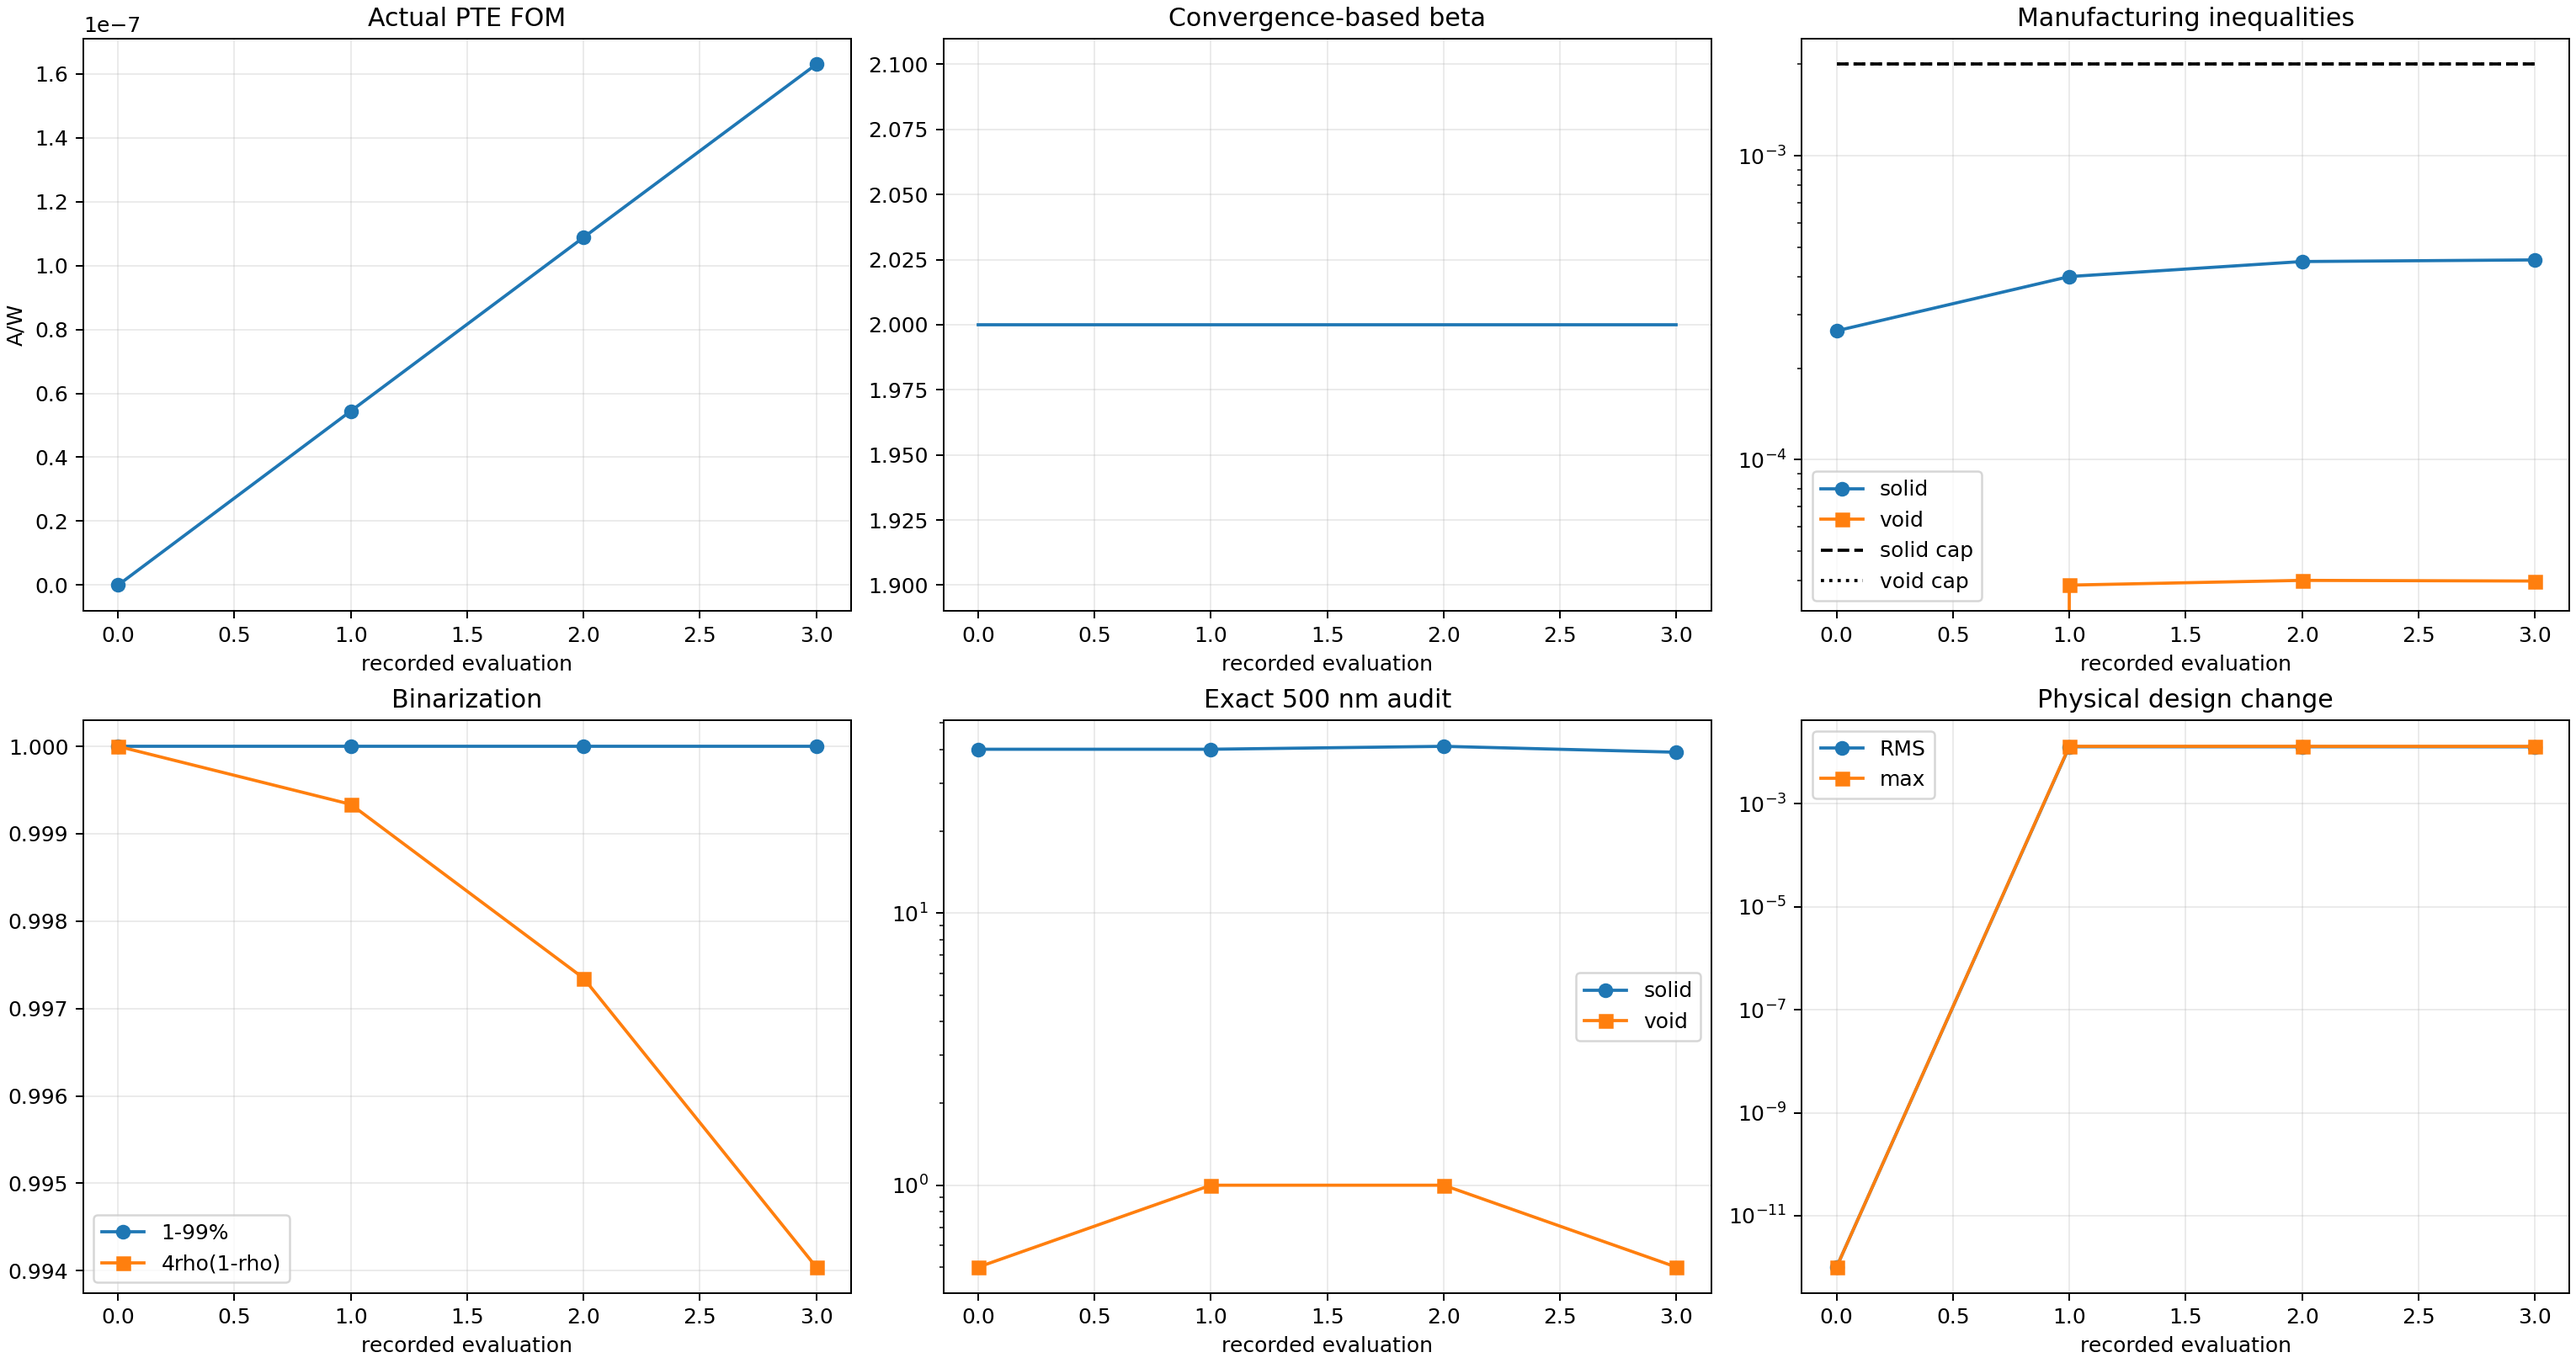
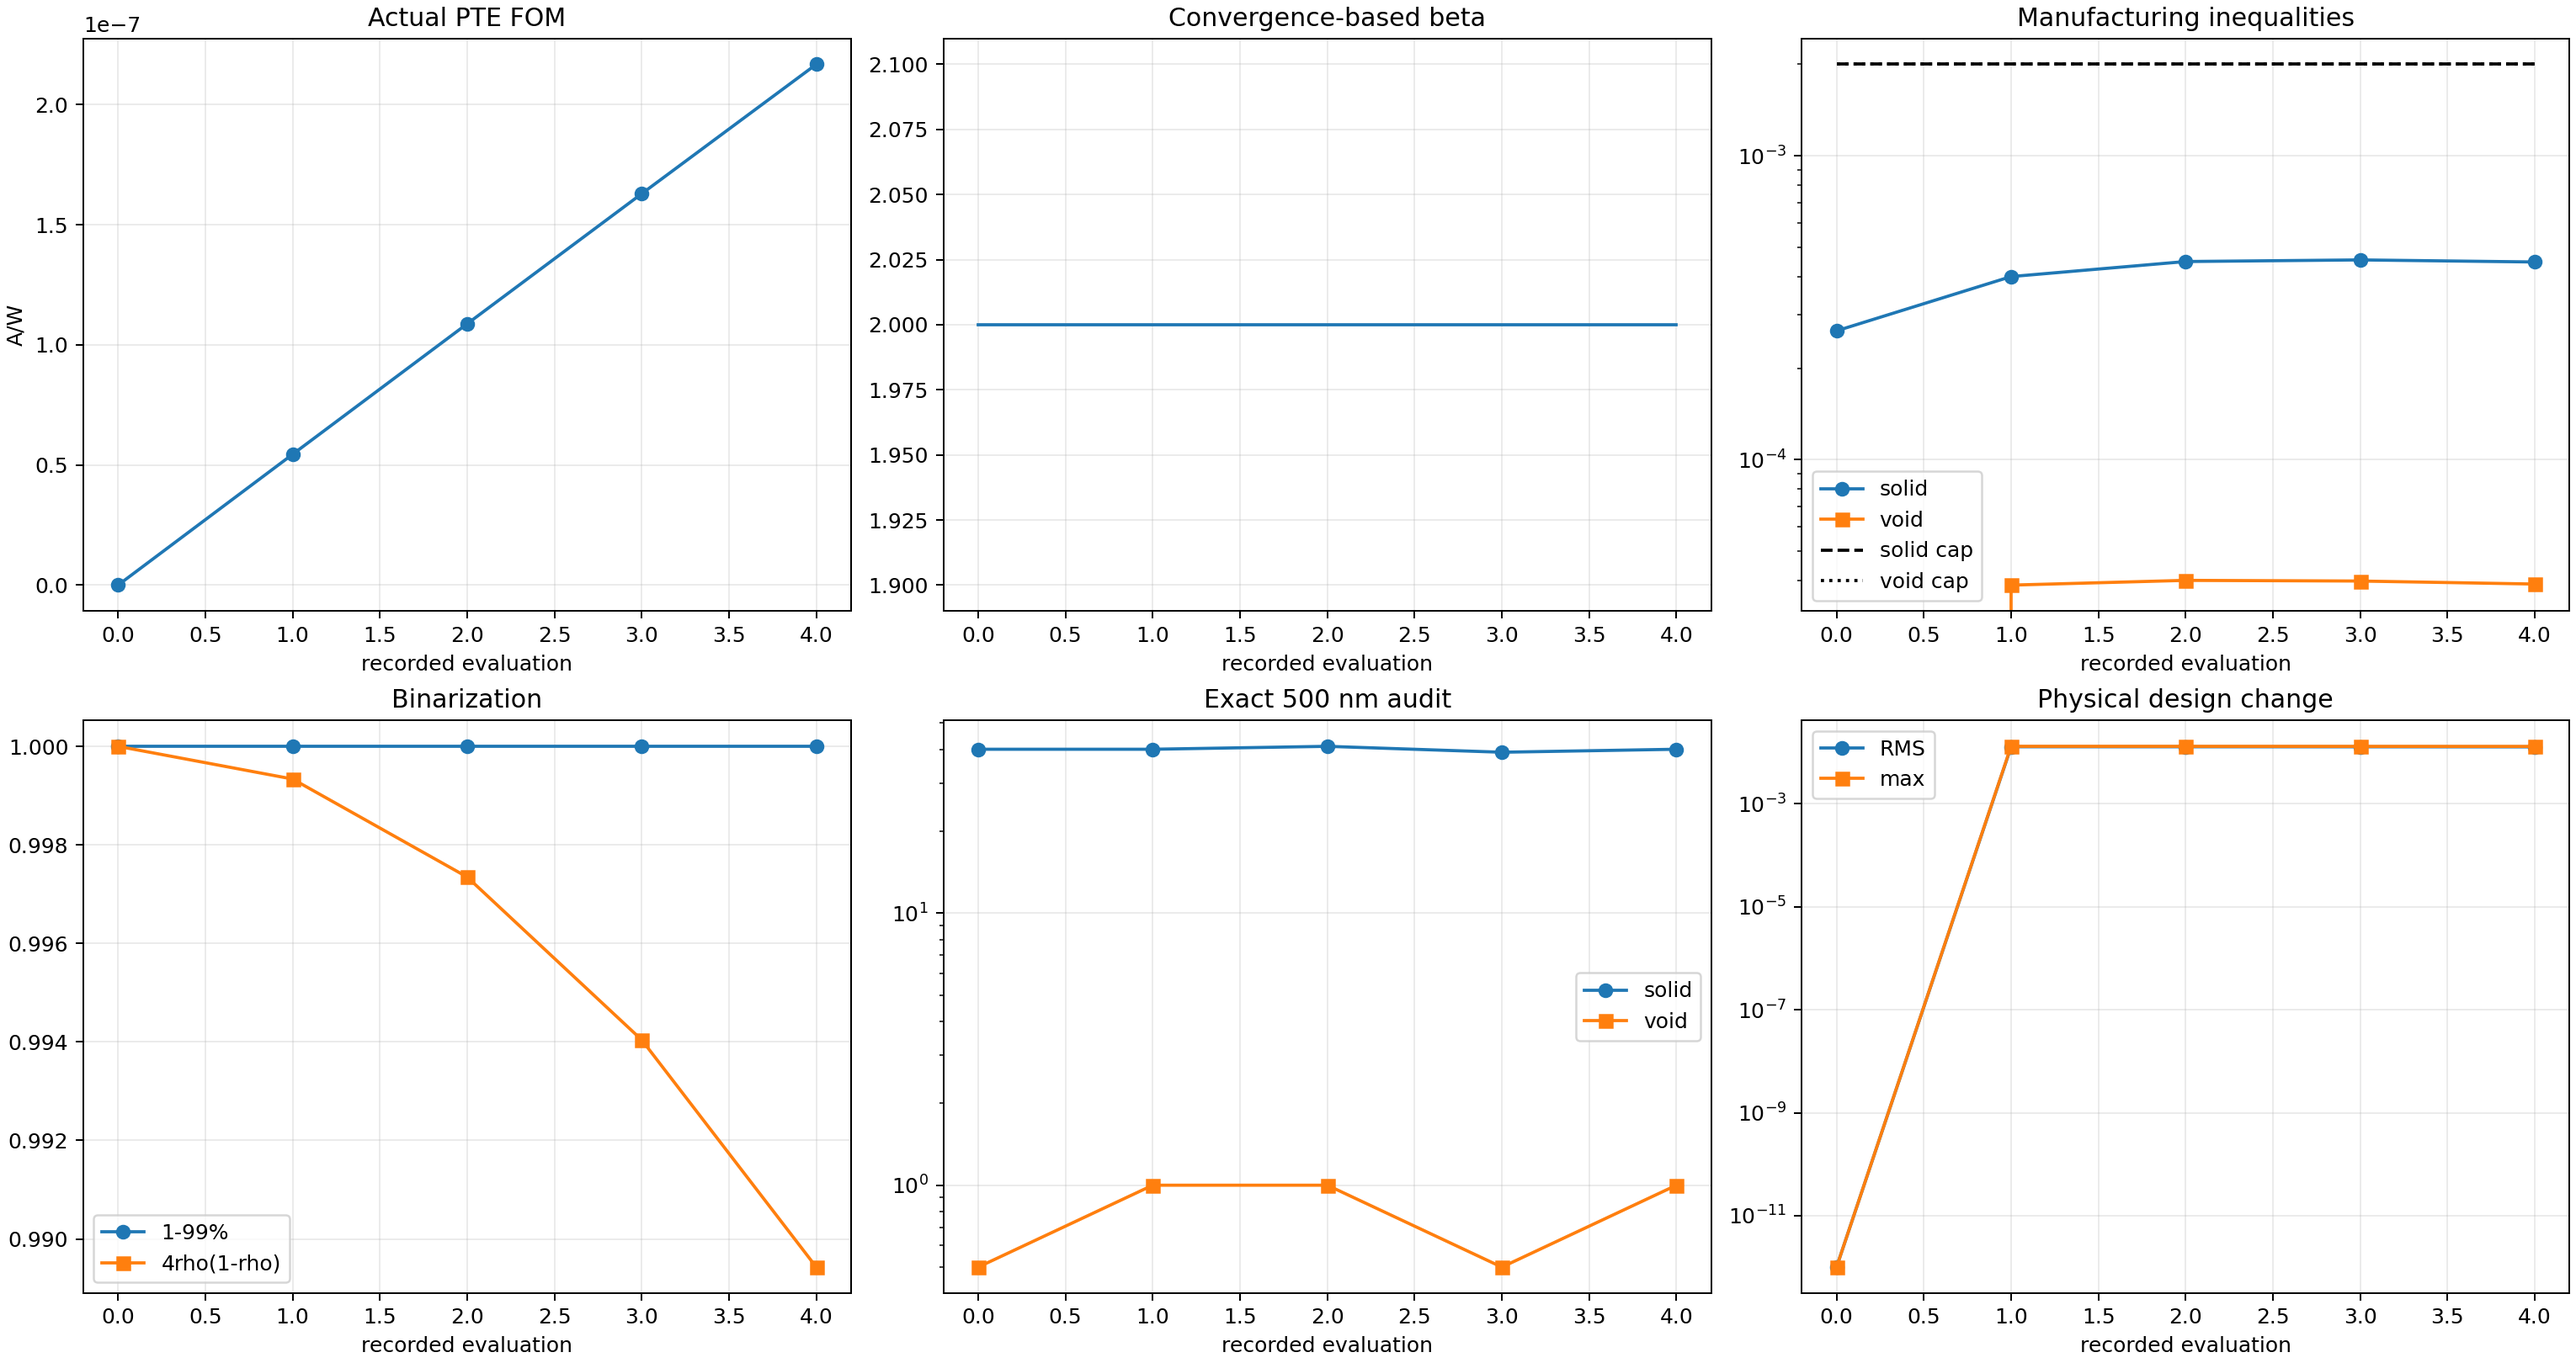
Record Run 005 run009_Ea_uniform_b002_s004_g004_accepted_mma

diff --git a/photothermal_pte/optimization_runs/run_009_uniform_Ea_from_scratch/results/OPTIMIZATION_REPORT.md b/photothermal_pte/optimization_runs/run_009_uniform_Ea_from_scratch/results/OPTIMIZATION_REPORT.md
@@ -2,12 +2,12 @@
 
 Status: `RUNNING_EXACT_UNIFORM_EA_OBJECTIVE_FIRST_OPTIMIZATION`
 
-Current stage: beta=2, accepted stage iteration=3, global iteration=3.
+Current stage: beta=2, accepted stage iteration=4, global iteration=4.
 
 Constraint contract: `soft_disk_opening_500nm_from_iteration_zero_v5`.
 
-Actual FOM: `1.629345045233e-07 A/W`. Fixed-cap solid/void constraints: `4.543424e-04` / `3.986241e-05` with caps `2.000000e-03` / `2.000000e-03`.
+Actual FOM: `2.168028382577e-07 A/W`. Fixed-cap solid/void constraints: `4.472475e-04` / `3.896570e-05` with caps `2.000000e-03` / `2.000000e-03`.
 
-Exact 500 nm bad cells: solid `39`, void `0`. Stage convergence: `False` (need at least 8 accepted updates).
+Exact 500 nm bad cells: solid `40`, void `1`. Stage convergence: `False` (need at least 8 accepted updates).
 
 Beta advances only after the stage FOM/density plateau. The run is not complete until the projected-binary and exact 500 nm gates pass and a fresh thresholded-binary GPU/CUDA evaluation succeeds.
